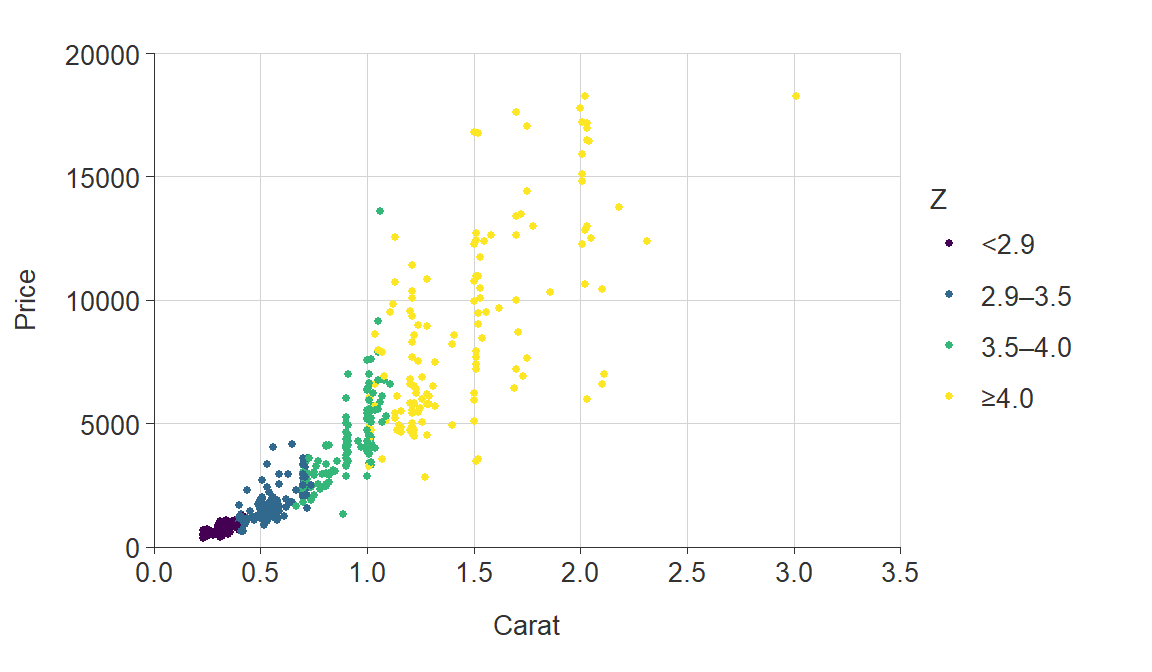
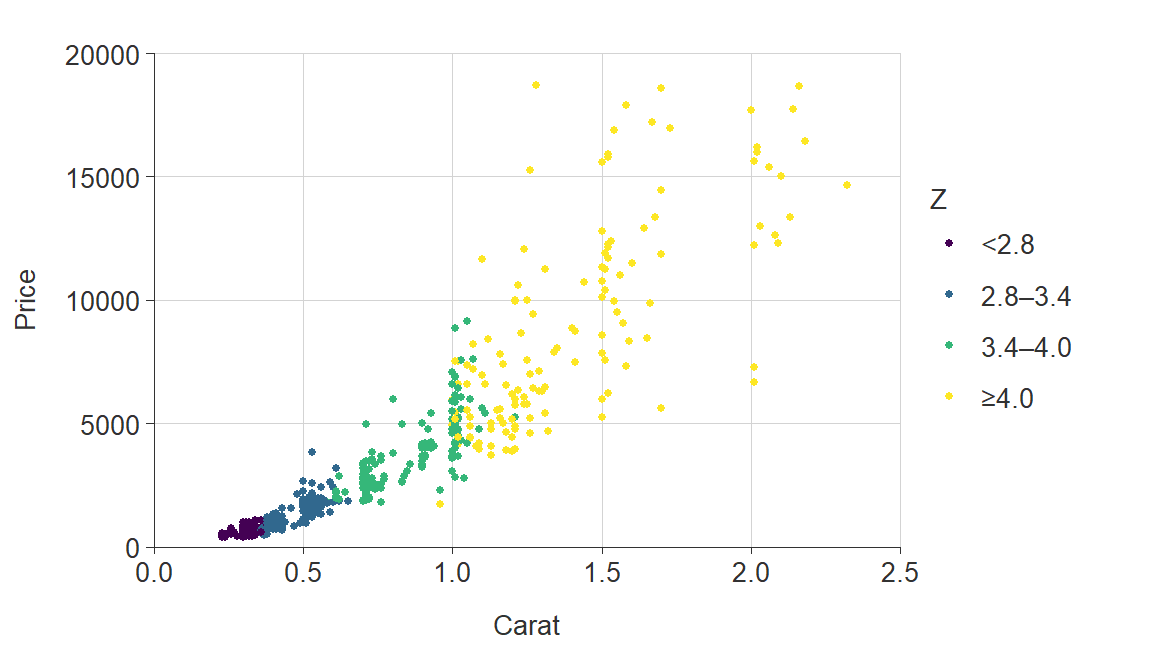
Update

diff --git a/content/post/2021-06-20-colouring-with-simplevis/index.html b/content/post/2021-06-20-colouring-with-simplevis/index.html
@@ -1,5 +1,5 @@
 ---
-title: Colouring with simplevis
+title: simplevis - simple methods for adding colour to visualisations
 author: David Hodge
 date: '2021-06-20'
 slug: colouring-with-simplevis
@@ -52,16 +52,16 @@ plot_data
 #&gt; # A tibble: 539 x 10
 #&gt;    carat cut       color clarity depth table price     x     y     z
 #&gt;    &lt;dbl&gt; &lt;ord&gt;     &lt;ord&gt; &lt;ord&gt;   &lt;dbl&gt; &lt;dbl&gt; &lt;int&gt; &lt;dbl&gt; &lt;dbl&gt; &lt;dbl&gt;
-#&gt;  1  1.01 Ideal     E     SI1      61.6    57  5206  6.44  6.49  3.98
-#&gt;  2  1.01 Very Good F     SI2      63.4    54  4270  6.42  6.39  4.06
-#&gt;  3  0.36 Premium   H     VS2      61      60   729  4.6   4.55  2.79
-#&gt;  4  1.11 Premium   D     VS2      59.5    60  6579  6.77  6.7   4.01
-#&gt;  5  1.01 Ideal     G     VS1      61.8    57  6499  6.4   6.45  3.97
-#&gt;  6  1.11 Ideal     G     VVS2     61.6    57  9507  6.7   6.74  4.14
-#&gt;  7  0.31 Ideal     D     SI1      61.8    57   533  4.33  4.37  2.69
-#&gt;  8  0.31 Ideal     H     VS2      61.7    55   507  4.34  4.38  2.69
-#&gt;  9  0.84 Very Good E     SI2      62.1    58  3125  6.02  6.09  3.76
-#&gt; 10  1.5  Very Good E     SI1      59.3    60 12247  7.4   7.5   4.42
+#&gt;  1  1.22 Ideal     E     VS1      62.4    54 10622  6.77  6.88  4.26
+#&gt;  2  0.56 Premium   D     SI1      61      60  1605  5.28  5.25  3.21
+#&gt;  3  0.33 Very Good E     VS1      58.3    62   886  4.49  4.57  2.64
+#&gt;  4  0.52 Premium   D     SI1      61.5    55  1651  5.21  5.19  3.2 
+#&gt;  5  1.02 Very Good F     VS1      62.8    58  7539  6.4   6.44  4.03
+#&gt;  6  1.52 Good      F     VS2      64.2    59 11696  7.16  7.2   4.61
+#&gt;  7  0.37 Ideal     F     VS1      61.1    56   846  4.64  4.65  2.84
+#&gt;  8  0.83 Ideal     G     VS1      62.1    55  4989  6.02  6.05  3.75
+#&gt;  9  0.32 Ideal     F     VS1      61.6    57   716  4.39  4.42  2.71
+#&gt; 10  1.06 Premium   D     SI2      61.6    61  4903  6.59  6.53  4.04
 #&gt; # ... with 529 more rows
 
 gg_point_col(plot_data, 
